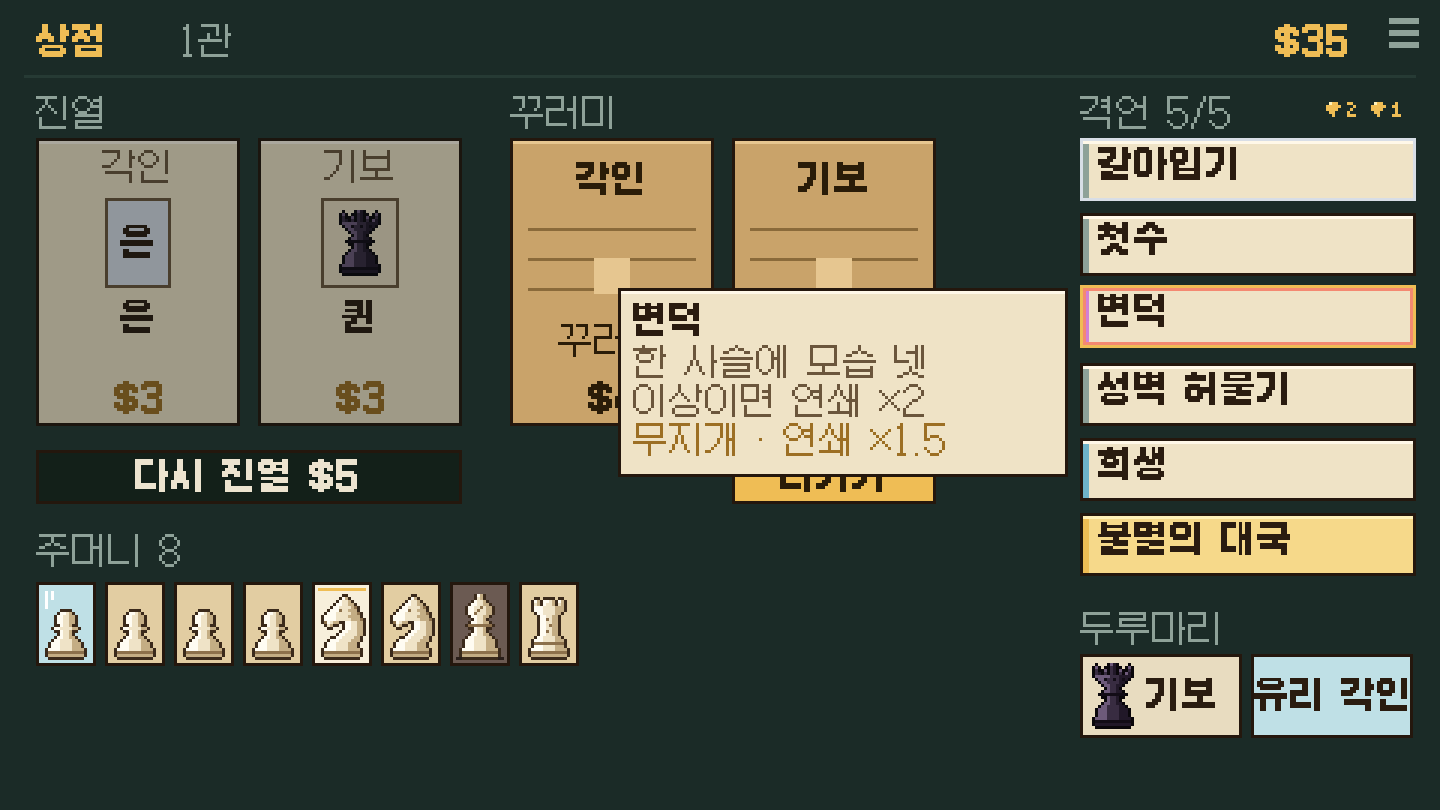
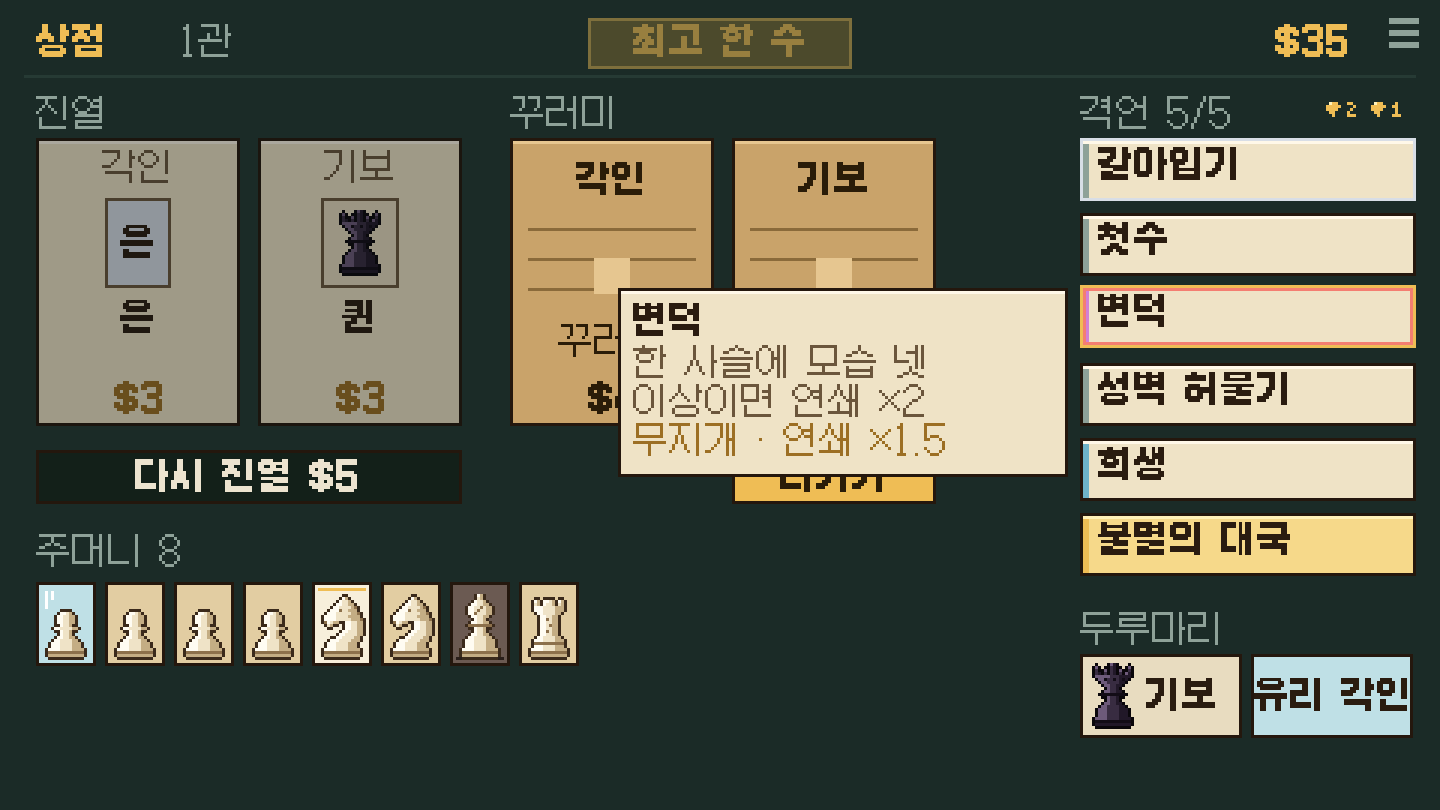
판 밖 화면을 만들었다 — 판 준비(오프닝 · 단), 도감 다섯 갈래, 기록, 오늘의 대국, 결과 화면의 새 도감 칸 · 해금 알림 · 다음 해금까지

Changed region(s): [[0.4062, 0.0, 0.5938, 0.0926]]

diff --git a/src/ui/screens/setup.js b/src/ui/screens/setup.js
@@ -1,0 +1,71 @@
+// 판 준비: 오프닝(해금된 것) · 단(이긴 단 + 1까지). 잠긴 오프닝은 「?」와 해금 과제.
+import { PAL } from '../../render/palette.js';
+import { W, H, text, box, rect, frame, sprite } from '../../render/gfx.js';
+import { OPENINGS } from '../../data/openings.js';
+import { DANS } from '../../sim/run.js';
+import { wrap } from '../../render/text.js';
+import { button } from '../ui.js';
+import { OPENING_ORDER, UNLOCKS, nextUnlock } from '../records.js';
+
+export const danName = (d) => (d ? `${d}단` : '기본');
+
+export class SetupScreen {
+  constructor(app) {
+    this.app = app;
+    const rec = app.records;
+    this.opening = rec.lastOpening && rec.unlocked.openings.includes(rec.lastOpening) ? rec.lastOpening : 'standard';
+    this.dan = Math.min(rec.lastDan ?? rec.unlocked.dan, rec.unlocked.dan);
+  }
+  start() {
+    const rec = this.app.records;
+    rec.lastOpening = this.opening; rec.lastDan = this.dan;
+    this.app.saveRecords();
+    this.app.newRun({ opening: this.opening, dan: this.dan });
+  }
+  draw(ctx, ui) {
+    const rec = this.app.records;
+    text(ctx, '새 판', 12, 8, PAL.gold, { bold: true });
+    rect(ctx, 8, 25, W - 16, 1, PAL.feltHi);
+    text(ctx, '오프닝', 12, 32, PAL.dim);
+    OPENING_ORDER.forEach((id, i) => {
+      const op = OPENINGS[id];
+      const open = rec.unlocked.openings.includes(id);
+      const x = 12 + i * 92, y = 46, w = 86, h = 92;
+      const sel = this.opening === id;
+      const rid = `setup:op:${id}`;
+      const unlock = UNLOCKS.find((u) => u.id === id);
+      ui.region(rid, x, y, w, h, { enabled: open, onClick: () => { this.opening = id; this.app.sfx('pick'); }, tip: open ? null : () => ({ title: '잠김', lines: wrap(unlock.text, 140), w: 150 }) });
+      box(ctx, x, y, w, h, open ? PAL.feltDk : PAL.felt, sel ? PAL.gold : ui.isHover(rid) && open ? PAL.goldDk : PAL.frameDk);
+      if (sel) frame(ctx, x - 1, y - 1, w + 2, h + 2, PAL.gold);
+      if (!open) {
+        text(ctx, '?', x + w / 2, y + 16, PAL.dimDk, { align: 'center', bold: true, scale: 3 });
+        wrap(unlock.text, w - 8).slice(0, 3).forEach((l, k) => text(ctx, l, x + w / 2, y + 52 + k * 12, PAL.dimDk, { align: 'center' }));
+        return;
+      }
+      text(ctx, op.name, x + w / 2, y + 5, sel ? PAL.gold : PAL.ink, { align: 'center', bold: true });
+      // 주머니 모습: 작은 기물 여덟(두 줄)
+      op.bag.forEach((t, k) => sprite(ctx, t, 'w', x + 4 + (k % 4) * 20, y + 20 + Math.floor(k / 4) * 20));
+      const extra = [];
+      if (op.rules.hand) extra.push(`손 ${op.rules.hand}`);
+      if (op.rules.moves) extra.push(`수 ${op.rules.moves}`);
+      if (op.run.maximSlots) extra.push(`격언 칸 ${op.run.maximSlots}`);
+      text(ctx, extra.join(' · '), x + w / 2, y + h - 16, PAL.gold, { align: 'center' });
+    });
+    // 단
+    text(ctx, '단', 12, 148, PAL.dim);
+    for (let d = 0; d <= 8; d++) {
+      const open = d <= rec.unlocked.dan;
+      button(ctx, ui, `setup:dan:${d}`, 12 + d * 50, 162, 46, 18, open ? danName(d) : '?', { enabled: open, tone: this.dan === d ? 'gold' : 'plain', onClick: () => { this.dan = d; this.app.sfx('pick'); } });
+    }
+    const rules = DANS.filter((x) => x.n <= this.dan).map((x) => x.text);
+    wrap(rules.length ? rules.join(' · ') : '더하는 규칙 없음', W - 30).slice(0, 3).forEach((l, k) => text(ctx, l, 14, 188 + k * 13, this.dan ? PAL.red : PAL.dim));
+    const nu = nextUnlock(rec);
+    if (nu) text(ctx, `다음 해금 ${OPENINGS[nu.id].name}: ${nu.text} (${nu.have}/${nu.need})`, 14, 230, PAL.dim);
+    button(ctx, ui, 'setup:back', 12, H - 26, 80, 18, '돌아가기', { onClick: () => this.app.go('title') });
+    button(ctx, ui, 'setup:start', W - 112, H - 26, 100, 18, '두기', { onClick: () => this.start(), tone: 'gold' });
+  }
+  key(k) {
+    if (k === 'Enter') this.start();
+    else if (k === 'Escape') this.app.go('title');
+  }
+}

diff --git a/src/ui/screens/codex.js b/src/ui/screens/codex.js
@@ -1,0 +1,55 @@
+// 도감: 격언 · 명인 · 명국 · 오프닝 · 판본. 본 것만 채워지고 나머지는 「?」. 명국은 모은 조각 수까지.
+import { PAL, RARITY, EDITION_TINT } from '../../render/palette.js';
+import { W, H, text, box, rect, frame } from '../../render/gfx.js';
+import { MAXIMS } from '../../data/maxims.js';
+import { MASTERS } from '../../data/masters.js';
+import { LEGENDS } from '../../data/legends.js';
+import { OPENINGS } from '../../data/openings.js';
+import { EDITIONS } from '../../data/editions.js';
+import { button } from '../ui.js';
+import { tipLines, miniShard } from '../parts.js';
+import { OPENING_ORDER, UNLOCKS } from '../records.js';
+
+const TABS = [['maxims', '격언'], ['masters', '명인'], ['legends', '명국'], ['openings', '오프닝'], ['editions', '판본']];
+
+export class CodexScreen {
+  constructor(app) { this.app = app; this.tab = 'maxims'; }
+  entries() {
+    const c = this.app.records.codex;
+    if (this.tab === 'maxims') return MAXIMS.map((m) => ({ id: m.id, seen: !!c.maxims[m.id], name: m.name, tip: () => tipLines(m.name, [m.text, `${m.verb} · $${m.price}`]), col: RARITY[m.rarity] }));
+    if (this.tab === 'masters') return MASTERS.map((m) => ({ id: m.id, seen: !!c.masters[m.id], name: m.name, tip: () => tipLines(`명인 ${m.name}`, m.text), col: PAL.red }));
+    if (this.tab === 'legends') return LEGENDS.map((l) => ({ id: l.id, seen: (c.legends[l.id] || 0) > 0 || !!c.legendsDone[l.id], name: l.name, parts: c.legends[l.id] || 0, done: !!c.legendsDone[l.id], tip: () => tipLines(l.name, [l.story, `전설: ${l.text}`, (c.legends[l.id] || 0) >= 1 ? `재현: ${l.feat}` : '']), col: PAL.gold }));
+    if (this.tab === 'openings') return OPENING_ORDER.map((id) => { const o = OPENINGS[id]; const u = UNLOCKS.find((x) => x.id === id); const open = this.app.records.unlocked.openings.includes(id); return { id, seen: open, name: o.name, tip: () => (open ? tipLines(o.name, o.text) : tipLines('잠김', u.text)), col: PAL.gold }; });
+    return EDITIONS.map((e) => ({ id: e.id, seen: !!c.editions[e.id], name: e.name, tip: () => tipLines(e.name, e.text), col: EDITION_TINT[e.id] }));
+  }
+  draw(ctx, ui) {
+    text(ctx, '도감', 12, 8, PAL.gold, { bold: true });
+    TABS.forEach(([id, label], i) => button(ctx, ui, `codex:tab:${id}`, 60 + i * 64, 5, 60, 16, label, { tone: this.tab === id ? 'gold' : 'plain', onClick: () => { this.tab = id; this.app.sfx('pick'); } }));
+    rect(ctx, 8, 25, W - 16, 1, PAL.feltHi);
+    const list = this.entries();
+    const seen = list.filter((e) => e.seen).length;
+    text(ctx, `${seen} / ${list.length}`, W - 12, 8, PAL.dim, { align: 'right' });
+    const cols = 5, cw = 88, ch = 24;
+    list.forEach((e, i) => {
+      const x = 12 + (i % cols) * (cw + 4), y = 32 + Math.floor(i / cols) * (ch + 4);
+      const id = `codex:${e.id}`;
+      ui.region(id, x, y, cw, ch, { tip: e.seen ? e.tip : null });
+      if (!e.seen) {
+        box(ctx, x, y, cw, ch, PAL.feltDk, PAL.frameDk);
+        text(ctx, '?', x + cw / 2, y + 6, PAL.dimDk, { align: 'center', bold: true });
+        return;
+      }
+      box(ctx, x, y, cw, ch, e.done ? '#f6d98a' : PAL.card, ui.isHover(id) ? PAL.gold : PAL.frameDk);
+      rect(ctx, x + 1, y + 2, 2, ch - 3, e.col);
+      text(ctx, e.name, x + 6, y + 6, PAL.cardInk, { bold: true });
+      if (e.parts != null) for (let k = 0; k < 3; k++) { if (k < e.parts) miniShard(ctx, x + cw - 20 + k * 6, y + 3, PAL.goldDk); }
+    });
+    button(ctx, ui, 'codex:back', 12, H - 26, 80, 18, '돌아가기', { onClick: () => this.app.go('title') });
+  }
+  key(k) {
+    if (k === 'Escape' || k === 'Enter') this.app.go('title');
+    const i = TABS.findIndex(([id]) => id === this.tab);
+    if (k === 'ArrowRight') this.tab = TABS[(i + 1) % TABS.length][0];
+    if (k === 'ArrowLeft') this.tab = TABS[(i + TABS.length - 1) % TABS.length][0];
+  }
+}

diff --git a/src/ui/app.js b/src/ui/app.js
@@ -7,6 +7,7 @@ import { UI, tooltip } from './ui.js';
 import { miniShard } from './parts.js';
 import { Fx } from './anim.js';
 import { makeStore, loadSettings, KEYS } from './save.js';
+import { loadRecords, observe, finishRun, noteMove, dailySeed, today } from './records.js';
 import { SCREENS } from './screens/index.js';
 
 const clone = (x) => JSON.parse(JSON.stringify(x));
@@ -34,6 +35,26 @@ export function createApp({ canvas, storage = null, now = () => 0, reducedMotion
   };
 
   app.speed = () => app.settings.speed || 1;
+  app.records = loadRecords(store);
+  app.fresh = [];   // 이번 판에 새로 채운 도감 칸
+  app.saveRecords = () => store.set(KEYS.records, app.records);
+  app.noteMove = (score, steps) => {
+    if (!app.run) return false;
+    const best = noteMove(app.records, score, steps, app.run.ante);
+    if (best) app.saveRecords();
+    return best;
+  };
+  // 판이 끝나면 한 번: 기록 · 해금. 결과 화면이 부른다.
+  app.finishRun = () => {
+    const run = app.run;
+    if (!run || run.recorded) return run && run.recordedOut;
+    const out = finishRun(app.records, run, { daily: run.daily || null });
+    out.fresh = app.fresh.length;
+    run.recorded = true;
+    run.recordedOut = out;
+    app.saveRecords();
+    return out;
+  };
 
   app.go = (name, args = {}) => {
     const S = SCREENS[name];
@@ -55,9 +76,13 @@ export function createApp({ canvas, storage = null, now = () => 0, reducedMotion
   // ── 판
   app.hasSave = () => !!store.get(KEYS.run);
   app.newRun = (opts = {}) => {
-    const seed = opts.seed ?? app.nextSeed ?? ((Math.floor(now() * 7919) ^ Date.now()) >>> 0) % 2147483647;
+    const daily = opts.daily ? today() : null;
+    const seed = daily ? dailySeed(daily) : opts.seed ?? app.nextSeed ?? ((Math.floor(now() * 7919) ^ Date.now()) >>> 0) % 2147483647;
     app.nextSeed = null;
-    app.run = createRun({ seed, opening: opts.opening });
+    app.run = createRun({ seed, opening: daily ? 'standard' : opts.opening, dan: daily ? 0 : opts.dan || 0 });
+    if (daily) app.run.daily = daily;
+    app.fresh = [];
+    observe(app.records, app.run, [], app.fresh);
     app.save();
     app.goPhase();
   };
@@ -79,6 +104,9 @@ export function createApp({ canvas, storage = null, now = () => 0, reducedMotion
   app.cmd = (cmd) => {
     const ev = applyRun(app.run, cmd);
     app.save();
+    const before = app.fresh.length;
+    observe(app.records, app.run, ev, app.fresh);
+    if (app.fresh.length !== before || ev.some((e) => e.type === 'win' || e.type === 'grade' || e.type === 'legend')) app.saveRecords();
     if (app.onCommand) app.onCommand(cmd, ev);
     return ev;
   };

diff --git a/src/ui/screens/result.js b/src/ui/screens/result.js
@@ -5,6 +5,8 @@ import { LEGENDS } from '../../data/legends.js';
 import { button } from '../ui.js';
 import { KIND_NAME } from '../words.js';
 import { shardIcon } from '../parts.js';
+import { OPENINGS } from '../../data/openings.js';
+import { nextUnlock } from '../records.js';
 
 export class ResultScreen {
   constructor(app) {
@@ -19,7 +21,8 @@ export class ResultScreen {
     this.short = !this.won && last && last.target ? Math.max(0, last.target - last.score) : 0;
     this.pct = last && last.target ? Math.floor((last.score / last.target) * 100) : 0;
     app.sfx(this.won ? 'fanfare' : 'lose');
-    if (app.onRunEnd) app.onRunEnd(run);
+    this.out = app.finishRun() || { unlocked: [], dan: null, fresh: 0 };
+    this.next = nextUnlock(app.records);
   }
   update(dt) { this.t += dt; }
   draw(ctx, ui) {
@@ -55,7 +58,15 @@ export class ResultScreen {
         }
       });
     }
-    if (app.resultExtra) app.resultExtra(ctx, ui, x, y, w, h);
+    // 판 밖에 남은 것: 새 도감 칸 · 해금 · 다음 해금까지
+    const ny = y + h - 64;
+    const notes = [];
+    if (this.out.fresh) notes.push([`도감 ${this.out.fresh}칸을 새로 채웠다`, PAL.ink]);
+    for (const id of this.out.unlocked) notes.push([`오프닝 「${OPENINGS[id].name}」이 열렸다`, PAL.gold]);
+    if (this.out.dan) notes.push([`${this.out.dan}단이 열렸다`, PAL.gold]);
+    if (!this.out.unlocked.length && this.next) notes.push([`다음 해금 ${OPENINGS[this.next.id].name}: ${this.next.text} ${this.next.have}/${this.next.need}`, PAL.dim]);
+    if (run.daily) notes.push([`오늘의 대국 ${run.daily}`, PAL.goldDk]);
+    notes.slice(-3).forEach(([s, c], i) => text(ctx, s, W / 2, ny - (notes.slice(-3).length - 1 - i) * 14, c, { align: 'center' }));
     const by = y + h - 28;
     if (this.won) {
       button(ctx, ui, 'result:endless', x + 20, by, 80, 18, '계속 두기', { onClick: () => this.endless() });
@@ -66,7 +77,7 @@ export class ResultScreen {
       button(ctx, ui, 'result:title', x + 160, by, 90, 18, '타이틀', { onClick: () => app.toTitle() });
     }
   }
-  again() { const op = this.app.run.opening; this.app.newRun({ opening: op }); }
+  again() { const r = this.app.run; this.app.newRun({ opening: r.opening, dan: r.dan, daily: !!r.daily }); }
   endless() { this.app.cmd({ type: 'endless' }); this.app.goPhase(); }
   key(k) { if (k === 'Enter') this.again(); else if (k === 'Escape') this.app.toTitle(); }
 }

diff --git a/src/ui/screens/records.js b/src/ui/screens/records.js
@@ -1,0 +1,37 @@
+// 기록: 판 수 · 이긴 판 · 최고 관 · 최고 한 수(점수와 사슬 모습 줄) · 외통 · 전설 완성 · 단 · 오늘의 대국.
+import { PAL } from '../../render/palette.js';
+import { W, H, text, box, rect, sprite, num } from '../../render/gfx.js';
+import { button } from '../ui.js';
+import { today } from '../records.js';
+import { danName } from './setup.js';
+
+export class RecordsScreen {
+  constructor(app) { this.app = app; }
+  draw(ctx, ui) {
+    const r = this.app.records;
+    text(ctx, '기록', 12, 8, PAL.gold, { bold: true });
+    rect(ctx, 8, 25, W - 16, 1, PAL.feltHi);
+    const d = r.daily && r.daily.date === today() ? r.daily : null;
+    const rows = [
+      ['판', `${r.runs}`], ['이긴 판', `${r.wins}`], ['최고 관', r.bestAnte ? `${r.bestAnte}관` : '-'],
+      ['외통', `${r.mates}`], ['전설 완성', `${r.legends}`], ['신의 한 수(!!!)', `${(r.grades['!!!'] || 0) + (r.grades['∞'] || 0)}`],
+      ['열린 단', danName(r.unlocked.dan)],
+      ['오늘의 대국', d ? `${d.won ? '이김' : `${d.ante}관`} · ${d.runs}판` : '아직'],
+    ];
+    rows.forEach(([a, b], i) => {
+      text(ctx, a, 40, 40 + i * 18, PAL.dim);
+      text(ctx, b, 240, 40 + i * 18, PAL.ink, { align: 'right', bold: true });
+    });
+    // 최고 한 수
+    box(ctx, 270, 40, 196, 120, PAL.feltDk, PAL.frameDk);
+    text(ctx, '최고 한 수', 280, 46, PAL.dim);
+    if (r.bestMove) {
+      text(ctx, num(r.bestMove.score), 456, 46, PAL.gold, { align: 'right', bold: true });
+      const steps = r.bestMove.steps.slice(0, 16);
+      steps.forEach((t, i) => sprite(ctx, t, 'w', 280 + (i % 8) * 22, 70 + Math.floor(i / 8) * 26));
+      text(ctx, `${r.bestMove.ante}관`, 456, 140, PAL.dim, { align: 'right' });
+    } else text(ctx, '아직', 280, 70, PAL.dimDk);
+    button(ctx, ui, 'records:back', 12, H - 26, 80, 18, '돌아가기', { onClick: () => this.app.go('title') });
+  }
+  key(k) { if (k === 'Escape' || k === 'Enter') this.app.go('title'); }
+}

diff --git a/src/ui/screens/title.js b/src/ui/screens/title.js
@@ -49,14 +49,16 @@ export class TitleScreen {
     const has = app.hasSave();
     const items = [];
     if (has) items.push(['title:continue', '이어 하기', () => app.continueRun(), 'gold']);
-    items.push(['title:new', '새 판', () => app.newRun(), has ? 'plain' : 'gold']);
-    if (app.extraTitleItems) items.push(...app.extraTitleItems());
+    items.push(['title:new', '새 판', () => app.go('setup'), has ? 'plain' : 'gold']);
+    items.push(['title:daily', '오늘의 대국', () => app.newRun({ daily: true }), 'plain']);
+    items.push(['title:codex', '도감', () => app.go('codex'), 'plain']);
+    items.push(['title:records', '기록', () => app.go('records'), 'plain']);
     items.push(['title:settings', '설정', () => app.openOverlay('settings'), 'plain']);
-    const bw = 120, bh = 18, x = (W - bw) / 2;
-    items.forEach(([id, label, fn, tone], i) => button(ctx, ui, id, x, 128 + i * 24, bw, bh, label, { onClick: fn, tone }));
+    const bw = 120, bh = 16, x = (W - bw) / 2;
+    items.forEach(([id, label, fn, tone], i) => button(ctx, ui, id, x, 116 + i * 21, bw, bh, label, { onClick: fn, tone }));
     rect(ctx, 0, H - 1, W, 1, PAL.feltDk);
   }
   key(k) {
-    if (k === 'Enter' || k === ' ') { if (!this.app.continueRun()) this.app.newRun(); }
+    if (k === 'Enter' || k === ' ') { if (!this.app.continueRun()) this.app.go('setup'); }
   }
 }

diff --git a/src/ui/screens/index.js b/src/ui/screens/index.js
@@ -9,6 +9,9 @@ import { PackScreen } from './pack.js';
 import { ResultScreen } from './result.js';
 import { PauseScreen } from './pause.js';
 import { SettingsScreen } from './settings.js';
+import { SetupScreen } from './setup.js';
+import { CodexScreen } from './codex.js';
+import { RecordsScreen } from './records.js';
 
 export const SCREENS = {
   title: TitleScreen,
@@ -22,4 +25,7 @@ export const SCREENS = {
   result: ResultScreen,
   pause: PauseScreen,
   settings: SettingsScreen,
+  setup: SetupScreen,
+  codex: CodexScreen,
+  records: RecordsScreen,
 };

diff --git a/src/ui/screens/battle.js b/src/ui/screens/battle.js
@@ -315,6 +315,7 @@ export class BattleScreen {
         v.score = from + e.score;
         v.count = null;
         this.lastEnd = { value: e.value, mult: e.mult, score: e.score, reason: e.reason, steps: v.chain ? v.chain.steps.slice() : [] };
+        if (e.score > 0 && app.noteMove(e.score, this.lastEnd.steps) && app.records.runs + app.records.wins > 0) app.toast('최고 한 수', PAL.gold);
         v.gather = null;
         v.chain = null;
         v.cut = null;
